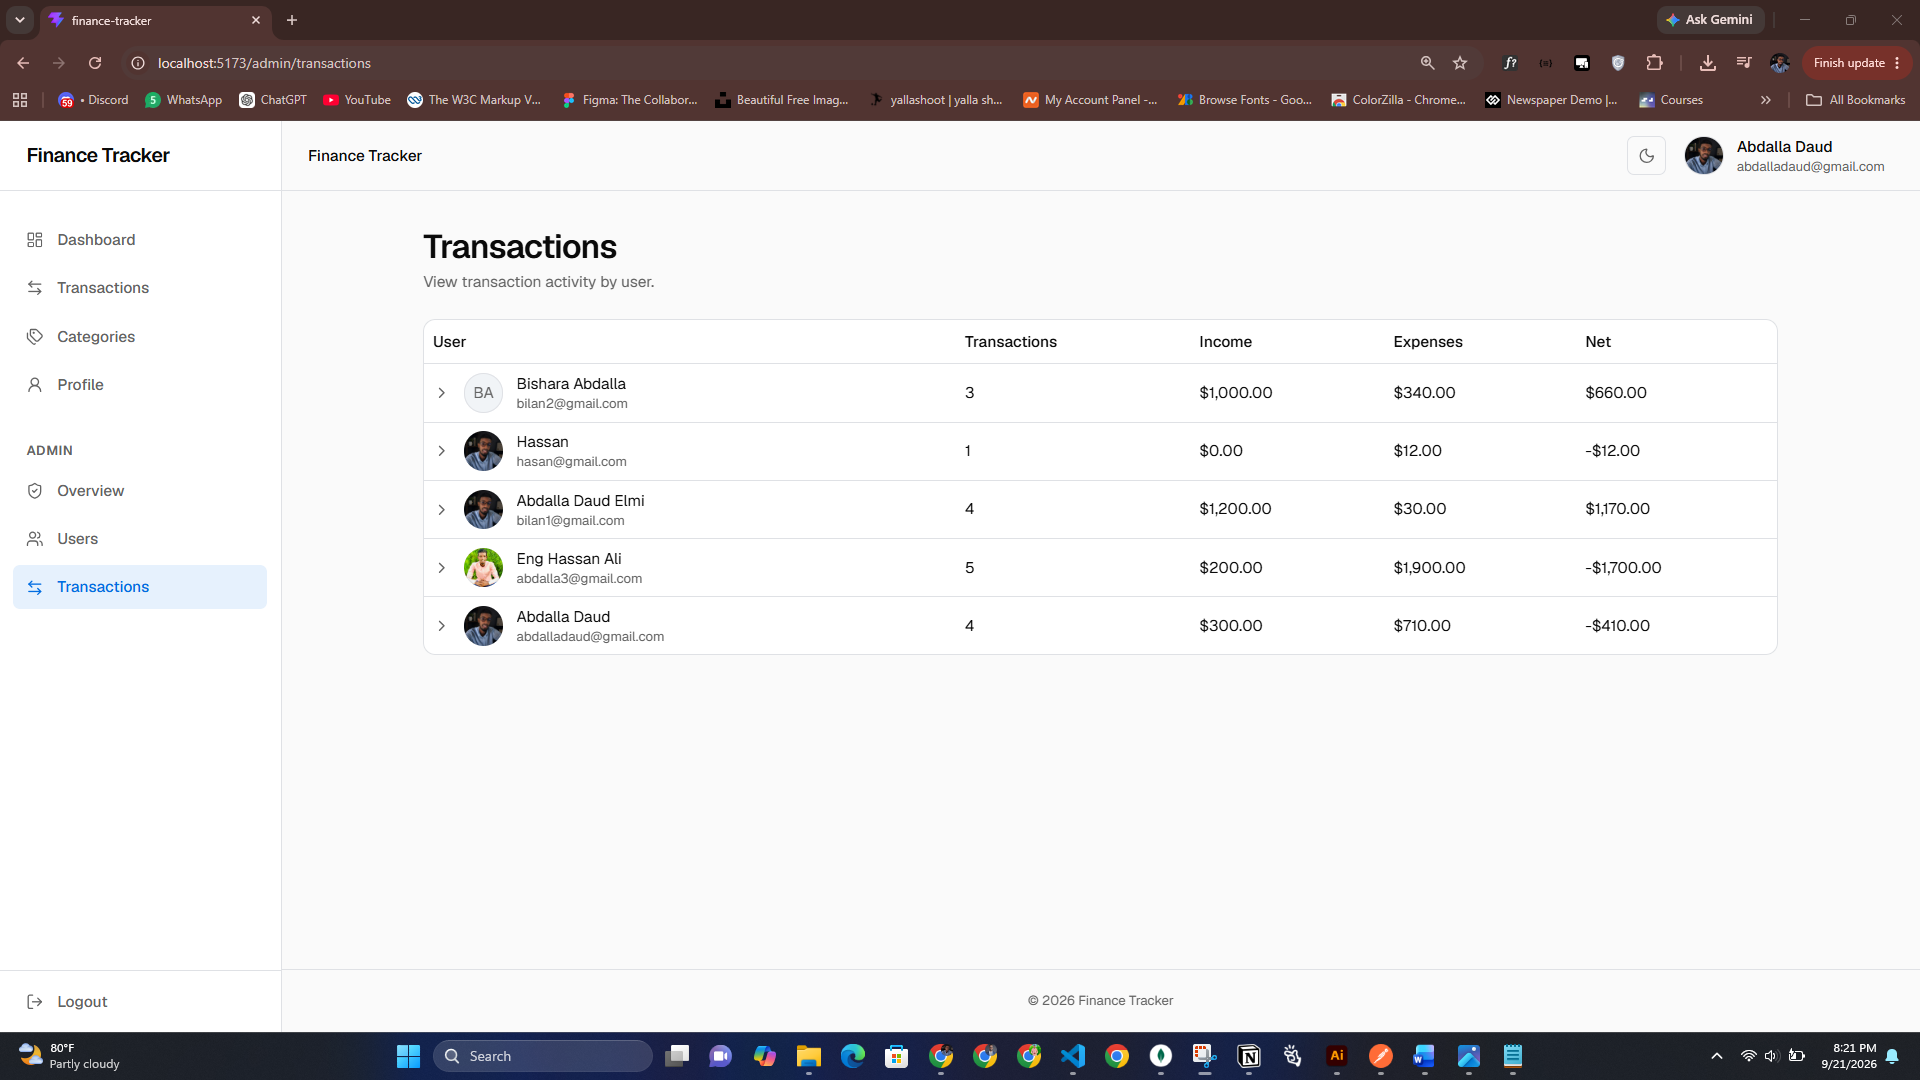
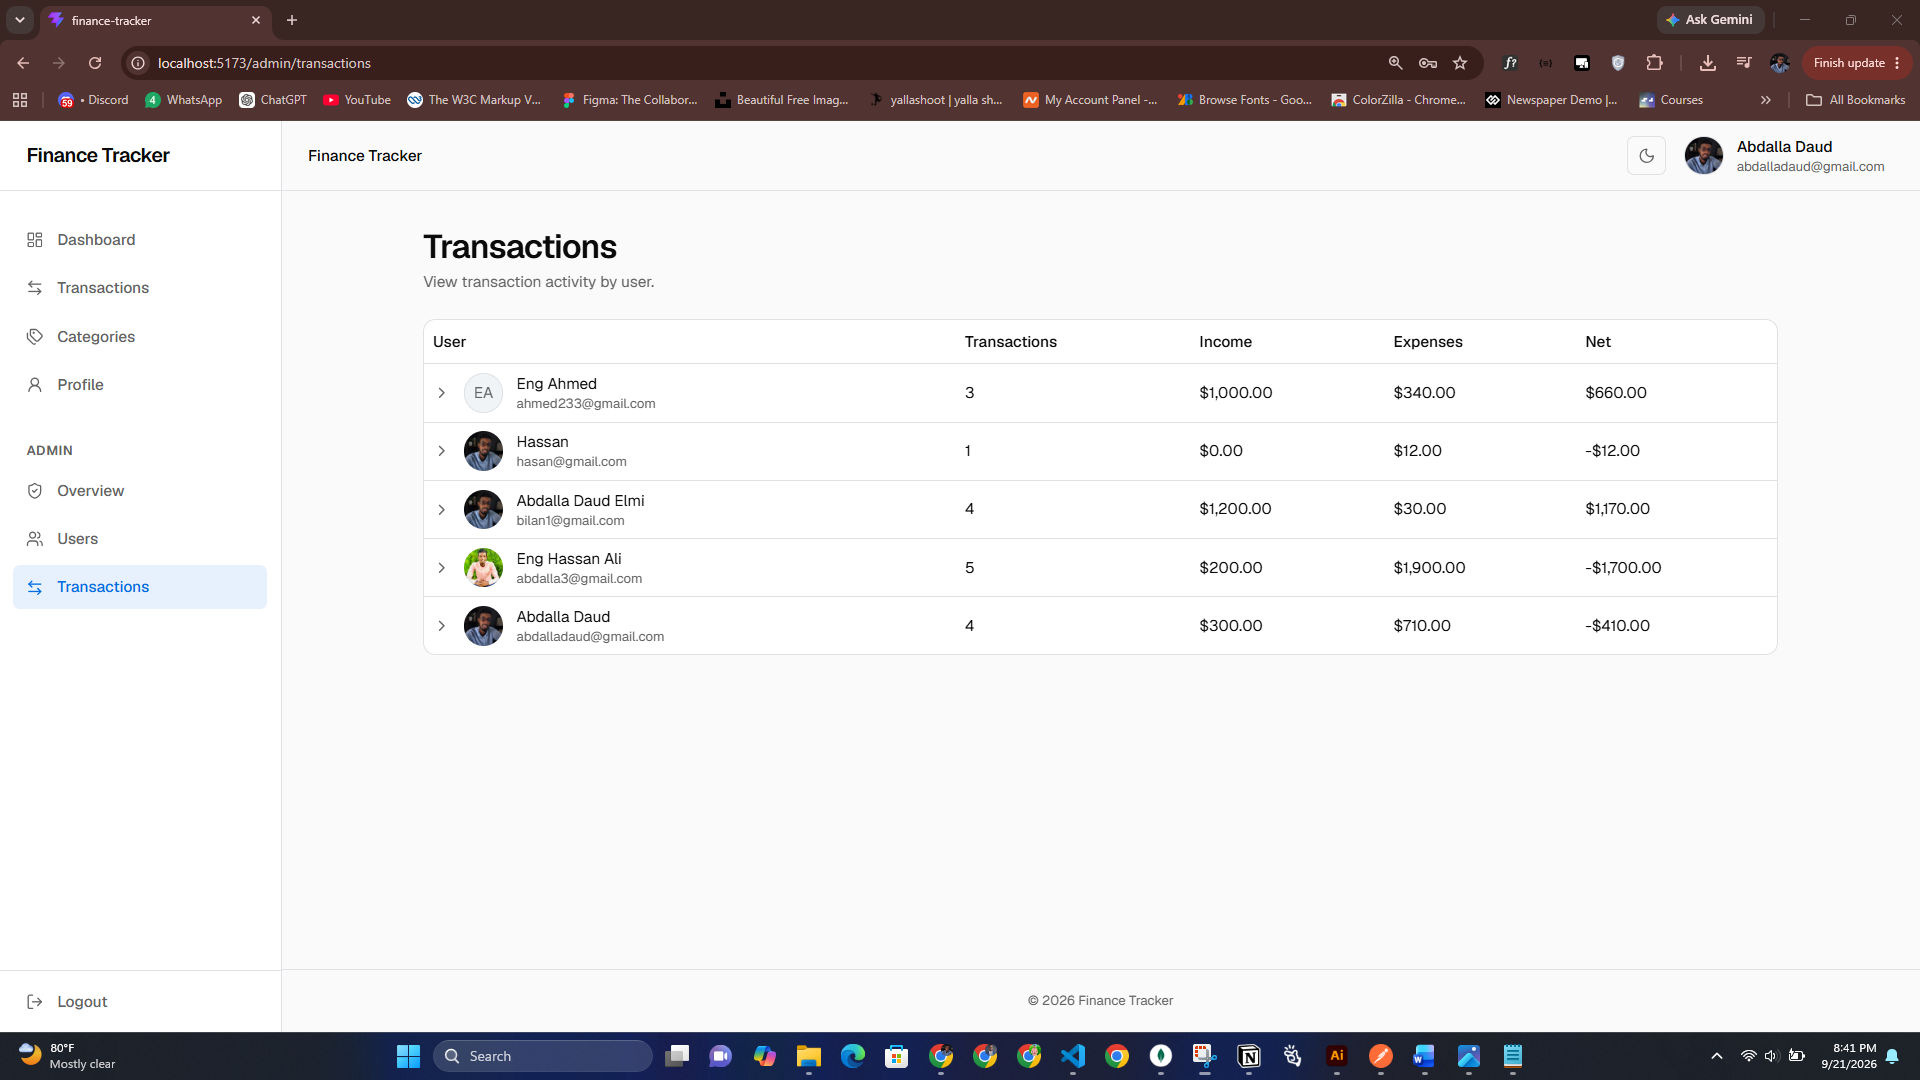
Add dark mode dashboard screenshot

Changed region(s): [[0.0625, 0.0306, 0.7812, 0.0917], [0.2812, 0.3361, 0.3438, 0.3972], [0.0, 0.9778, 0.0625, 1.0]]

diff --git a/README.md b/README.md
@@ -38,9 +38,15 @@ The project contains both the frontend and backend in a single repository.
 
 ### User Dashboard
 
-| Dashboard | Transactions |
+### User Dashboard
+
+| Light Mode | Dark Mode |
 | --- | --- |
-| ![Dashboard](docs/screenshots/dashboard.png) | ![Transactions](docs/screenshots/transactions.png) |
+| ![Dashboard Light](docs/screenshots/dashboard.png) | ![Dashboard Dark](docs/screenshots/dashboard-dark.png) |
+
+### Transactions
+
+![Transactions](docs/screenshots/transactions.png)
 
 ### Categories & Profile
 
@@ -56,7 +62,7 @@ The project contains both the frontend and backend in a single repository.
 
 ### Admin Transactions
 
-![Admin Transactions](docs/screenshots/adminTransactions.png)
+![Admin Transactions](docs/screenshots/adminTransactions.png) 
 
 ## Tech Stack
 
